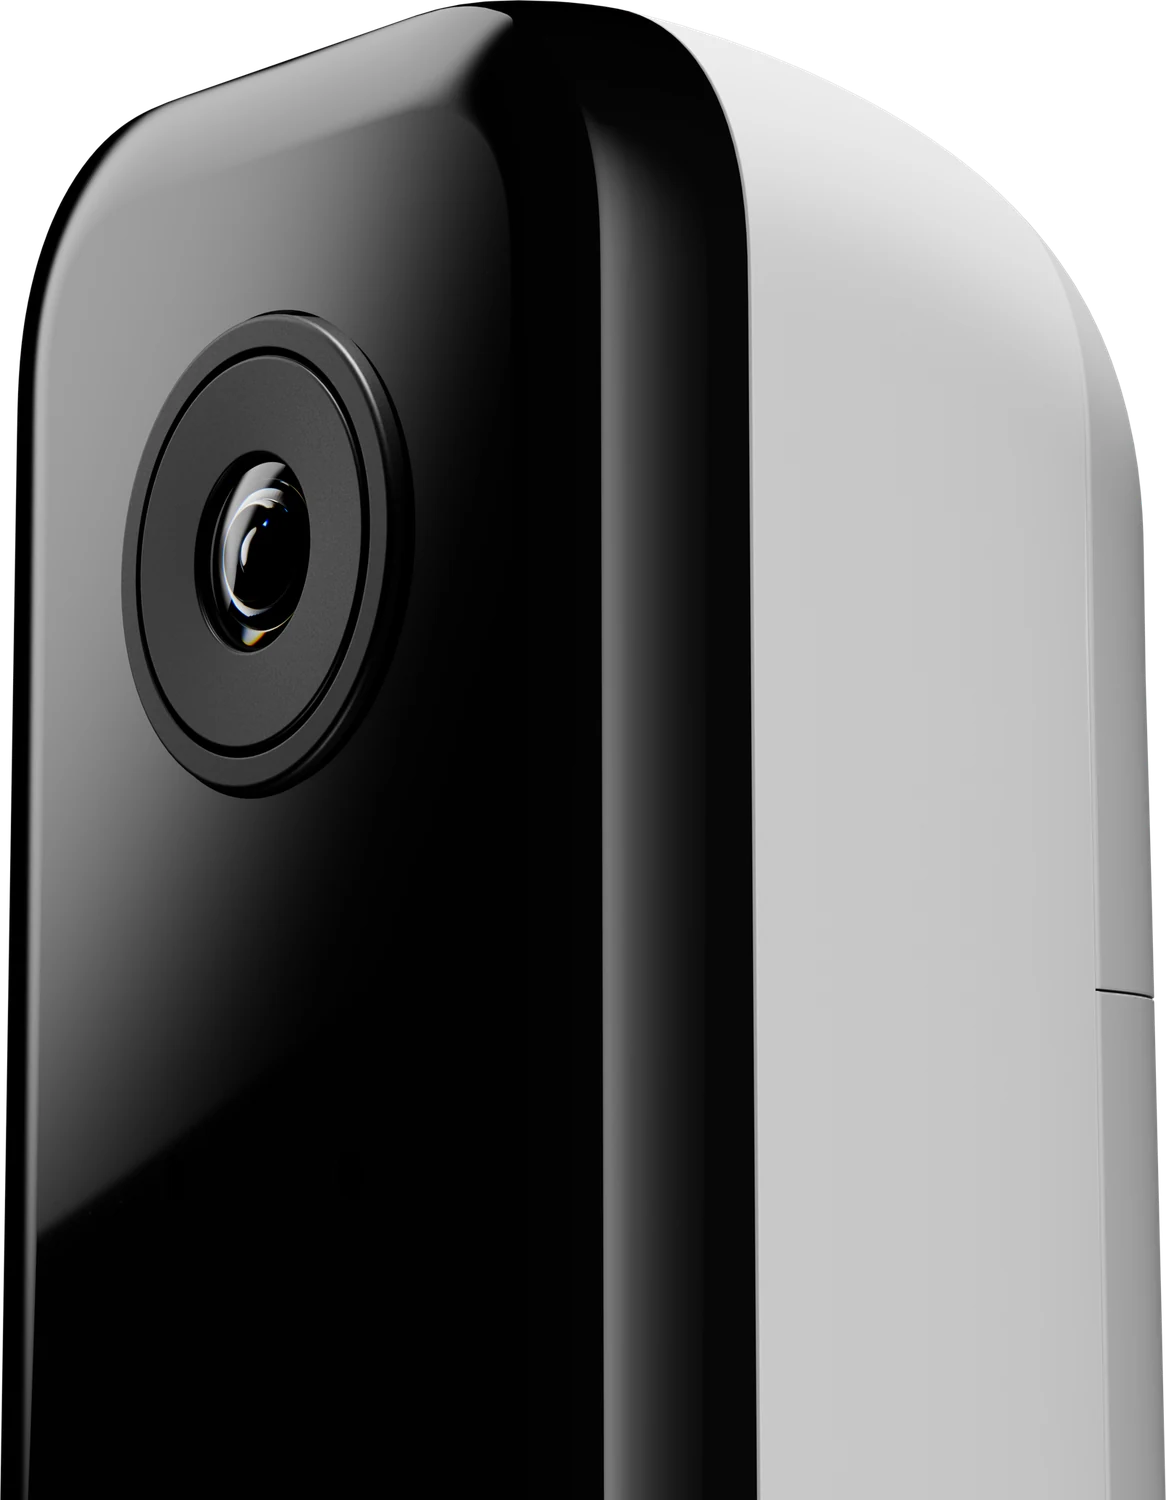
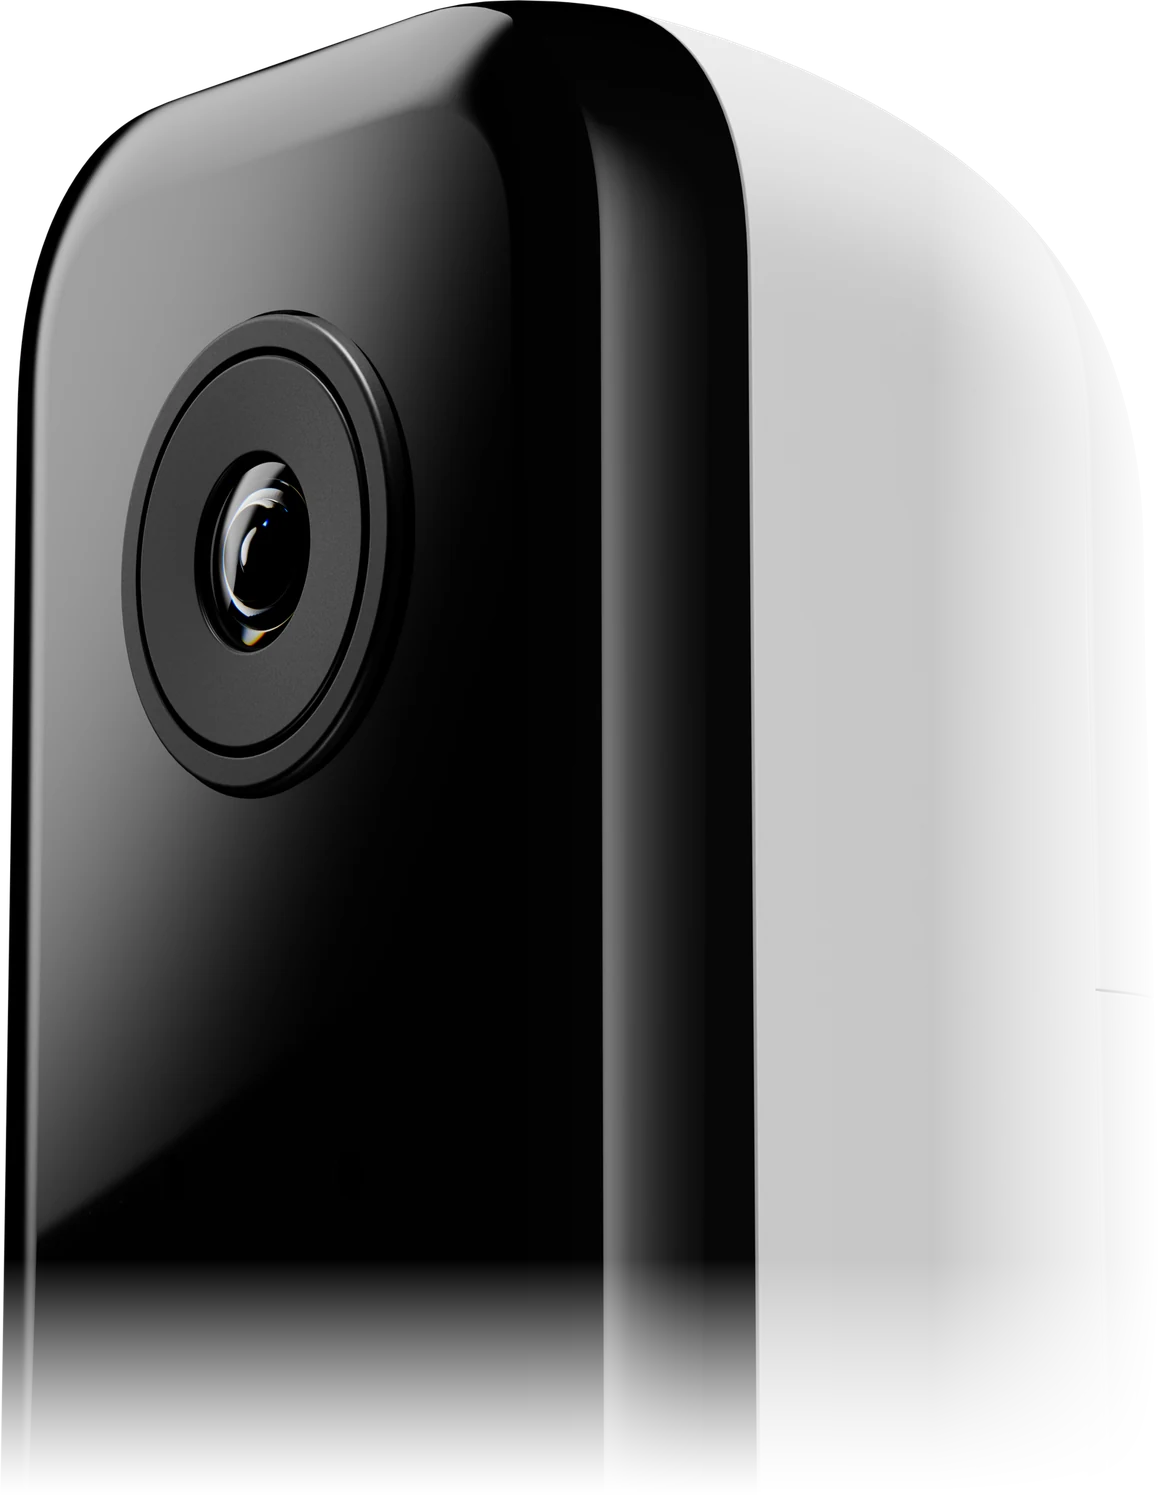
Doorbell: fade cropped render edges, extend under nav
Claude-Session: https://claude.ai/code/session_01Ex3Nj5cWfJPicmTsnxvjFa

Changed region(s): [[0.0, 0.1533, 1.0, 1.0]]

diff --git a/index.html b/index.html
@@ -1923,6 +1923,8 @@ body.hasbk #gTitle{transform:translateX(118px)}
 .dbm-card img.rr{object-fit:contain!important;padding:70px 150px 70px 150px!important;box-sizing:border-box}
 
 .dbm-card img.rr[data-fv=sd]{padding:60px 200px 250px!important}
+
+.lpage>.otab.dbm{overflow:visible!important}
 </style>
 <div id="stage">
   <div id="screen">
@@ -4136,7 +4138,7 @@ document.head.insertAdjacentHTML('beforeend',`<style>
   let m=0, cv=null; const V='?v=55';
   const L=$('#dbmList'), card=$('#dbmCard'), pv=$('#dbmPv'), pv2=$('#dbmPv2'), hv=$('#dbmHv'), ph=$('#dbmPhone'), hb=$('#dbmHub'), H=$('#dbmH');
   L.innerHTML=M.map(([ic,t],i)=>`<button class="${i?'':'on'}" data-dbm="${i}">${LSV(ic[0],28,ic[1]||'')}<span>${t}</span></button>`).join('');
-  card.innerHTML=['lens','speaker','redring','blue34','whitering','scan','sd','chip'].map(k=>`<img class="rr" src="assets/dbr/${k}.webp?v=270" alt="" data-fv="${k}">`).join('')+`<img src="assets/dbr/red34.webp?v=270" alt="" data-fv="d" class="dflt rr">`;
+  card.innerHTML=['lens','speaker','redring','blue34','whitering','scan','sd','chip'].map(k=>`<img class="rr" src="assets/dbr/${k}.webp?v=274" alt="" data-fv="${k}">`).join('')+`<img src="assets/dbr/red34.webp?v=270" alt="" data-fv="d" class="dflt rr">`;
   hv.src=`assets/db/hub.mp4${V}`; cv=pv2;
   const live=()=>!!$('#dbmList').closest('[data-vis="1"]');
   const cap=$('#dbmCap');
